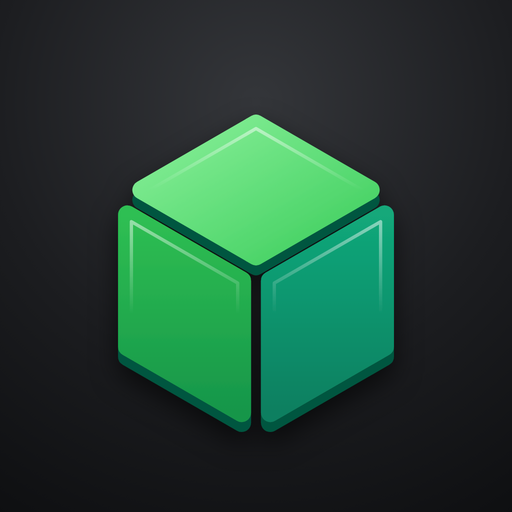
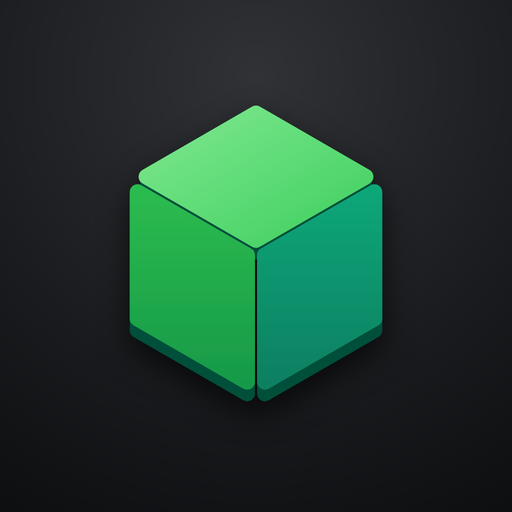
Иконка: минималистичный выпуклый куб по центру (v20)
* Иконка: выпуклый куб из квадратиков без бликов, по центру (версия 20)

Claude-Session: https://claude.ai/code/session_01NksUZ4fHviJTpt4Aa6ovyi

* Иконка: минималистичный выпуклый куб

Claude-Session: https://claude.ai/code/session_01NksUZ4fHviJTpt4Aa6ovyi

---------

Changed region(s): [[0.2188, 0.1875, 0.7812, 0.8438]]

diff --git a/index.html b/index.html
@@ -11,8 +11,8 @@
 <meta name="apple-mobile-web-app-status-bar-style" content="black-translucent">
 <meta name="apple-mobile-web-app-title" content="SBERCUBE">
 <link rel="manifest" href="manifest.webmanifest">
-<link rel="apple-touch-icon" href="icon-180.png?v=2">
-<link rel="icon" href="icon-192.png?v=2">
+<link rel="apple-touch-icon" href="icon-180.png?v=3">
+<link rel="icon" href="icon-192.png?v=3">
 <title>SBERCUBE</title>
 <script>try { const th = localStorage.getItem("theme"); if (th === "light") document.documentElement.classList.add("light"); } catch (e) {}</script>
 <style>
@@ -401,7 +401,7 @@
   <div class="mrow"><span>Тема</span><div class="seg glass"><button class="chip" data-theme="dark"><i data-ic="moon"></i> Тёмная</button><button class="chip" data-theme="light"><i data-ic="sun"></i> Светлая</button></div></div>
   <button class="pill" id="ecoBtn"><i data-ic="battery"></i> Экономия батареи: выкл</button>
   <button class="pill" id="reset"><i data-ic="trash"></i> Сбросить квадраты</button>
-  <small style="color:var(--muted);text-align:center">Версия 19</small>
+  <small style="color:var(--muted);text-align:center">Версия 20</small>
 </div>
 </div>
 <div id="selTools"><div id="hint"></div></div>

diff --git a/sw.js b/sw.js
@@ -1,5 +1,5 @@
 // Сначала сеть (чтобы приходили обновления), без интернета — из кэша телефона
-const CACHE = "zvonki-v31";
+const CACHE = "zvonki-v32";
 const FILES = ["./", "./index.html", "./manifest.webmanifest", "./icon-180.png", "./icon-192.png", "./icon-512.png", "./icon-maskable-512.png"];
 self.addEventListener("install", e => { e.waitUntil(caches.open(CACHE).then(c => c.addAll(FILES)).then(() => self.skipWaiting())); });
 self.addEventListener("activate", e => { e.waitUntil(caches.keys().then(ks => Promise.all(ks.filter(k => k !== CACHE).map(k => caches.delete(k)))).then(() => self.clients.claim())); });
